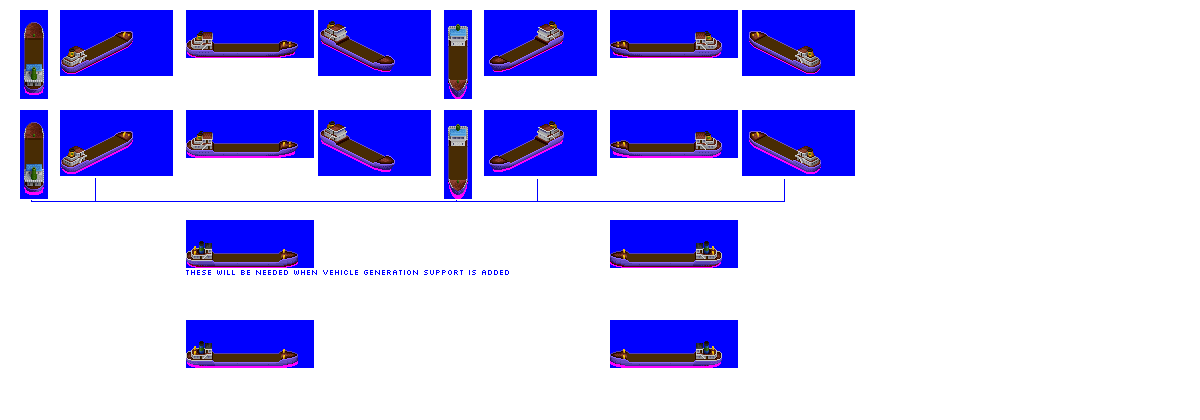
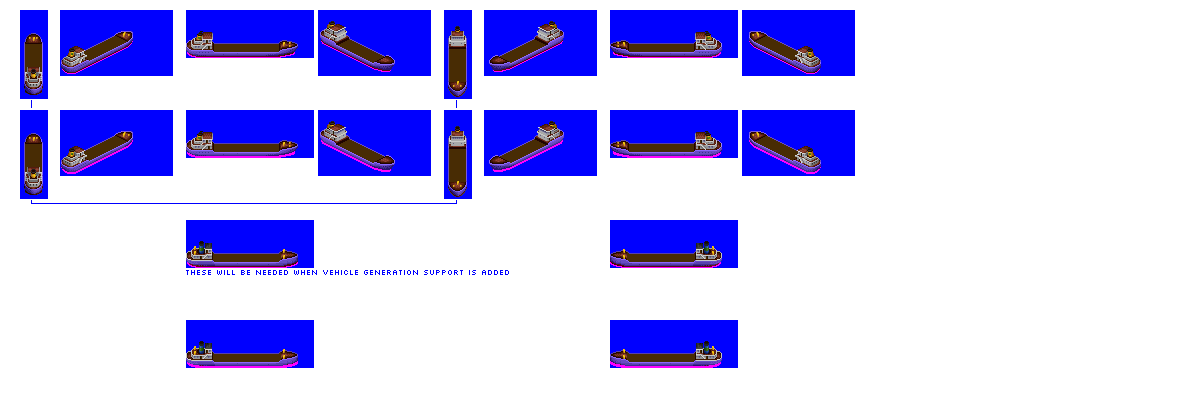
Change: increase height of buy menu sprites to show more of each ship

diff --git a/src/ship.py b/src/ship.py
@@ -240,7 +240,7 @@ class Ship(object):
     def buy_menu_bb_y_offset(self):
         # !! scaffolding for variable height ships that need offsets on their bounding box for buy menu
         # !! returns a fixed value currently, more wasn't needed yet :P Possibly delete?
-        return 26
+        return 20
 
     @property
     def offsets(self):

diff --git a/src/global_constants.py b/src/global_constants.py
@@ -23,7 +23,7 @@ vehicle_offsets = {'32px': [[-14, -73], [-44, -38], [-22, -36], [8, -38], [-14, 
 
 buy_menu_sprite_x_loc = 610
 buy_menu_sprite_width = 128
-buy_menu_sprite_height = 22
+buy_menu_sprite_height = 28
 sprites_max_x_extent = 855
 docs_ship_image_height = 32 # show the full ship (assuming no ships taller than 32px in – view)
 
